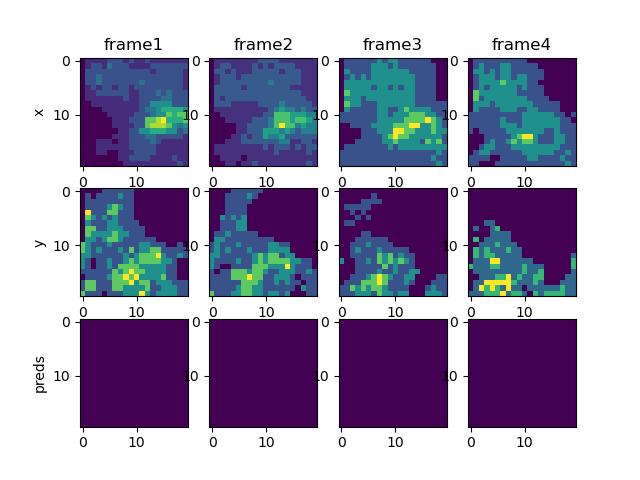
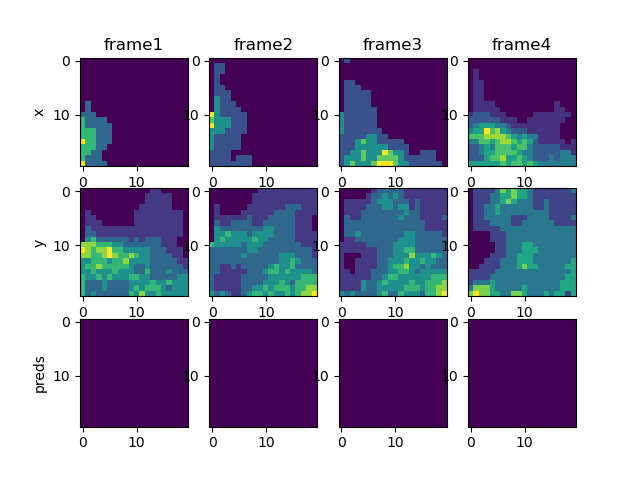
preprocessing and data loader fix

diff --git a/preprocessing/kmni_dataset/__main__.py b/preprocessing/kmni_dataset/__main__.py
@@ -87,20 +87,21 @@ def preprocess(
                     #    np.uint8
                     # )
                 )
-                max_val = max(t.max(raw_content).item(), max_val)
-                min_val = min(t.min(raw_content).item(), min_val)
                 raw_content = raw_content[
                     243:590, 234:512
                 ]  # subsample the image
 
                 # List comprehension is faster most of the time
-                content_accumulator = [
+                content_accumulator = tuple(
                     raw_content[x : x + 80, y : y + 80] for x, y in coordinates
-                ]
+                )
                 content = t.stack(
                     content_accumulator
                 )  # merge them into one tensor
                 content[content == 65535] = 0  # set NaNs to zero
+                max_val = max(t.max(content).item(), max_val)
+                min_val = min(t.min(content).item(), min_val)
+
                 raininess = (
                     1 - t.sum(content == 0) / content.numel()
                 )  # compute raininess of single image
@@ -124,7 +125,7 @@ def preprocess(
                     file_index += 1
                 else:  # if the size is too small, discard the data
                     acc = []
-            if len(acc) > 8:
+            if len(acc) >= 8:
                 tensorized_acc = t.stack(acc)
                 file_name = os.path.join(
                     out_dir, f'{str(file_index).rjust(10, "0")}.pt'
@@ -132,7 +133,7 @@ def preprocess(
                 acc = []
                 t.save(tensorized_acc, file_name)
                 file_index += 1
-    with open(os.path.join(out_dir, "metadata.json"), "w") as f:
+    with open(os.path.join(out_dir, "../metadata.json"), "w") as f:
         json.dump({"max": max_val, "min": min_val}, f)
 
 

diff --git a/data_loaders/kmni_data_loader.py b/data_loaders/kmni_data_loader.py
@@ -9,9 +9,6 @@ from tqdm import tqdm
 import json
 from ..preprocessing.utils import listdir
 
-# todo: shuffling
-# todo: fix the fist batch is empty
-
 
 class DataLoader:
     def __init__(
@@ -27,9 +24,10 @@ class DataLoader:
         power: float = 1.0
     ):
         self.power = t.tensor(power)
-        # metadata = t.load(os.path.join(folder, "../metadata.pt"))
+        with open(os.path.join(folder, "../metadata.json")) as f:
+            metadata = json.load(f)
         self.data_folder = folder
-        self.normalizing_max = 254
+        self.normalizing_max = metadata['max']
         self.merge_nodes = merge_nodes
         self.crop = crop
         self.device = device

diff --git a/experiments/local_temporal_conv/config.py b/experiments/local_temporal_conv/config.py
@@ -2,7 +2,7 @@ import torch
 import torch.nn as nn
 
 MODEL_TYPE = "temporal"
-PREPROCESSED_FOLDER = "/mnt/kmni_dataset/20_plus_preprocessed_tmp"
+PREPROCESSED_FOLDER = "/mnt/kmni_dataset/20_plus_preprocessed_latest"
 MAPPING_TYPE = "conv"
 DATASET = "kmni"
 EPOCHS = 30

diff --git a/GAT3D/GATMultistream.py b/GAT3D/GATMultistream.py
@@ -41,8 +41,7 @@ class Model(nn.Module):
         )
 
     def forward(self, x):
-        x = self.layers(x)
-        return x
+        return t.sigmoid(self.layers(x))
 
 
 class GATMultiHead3D(nn.Module):
